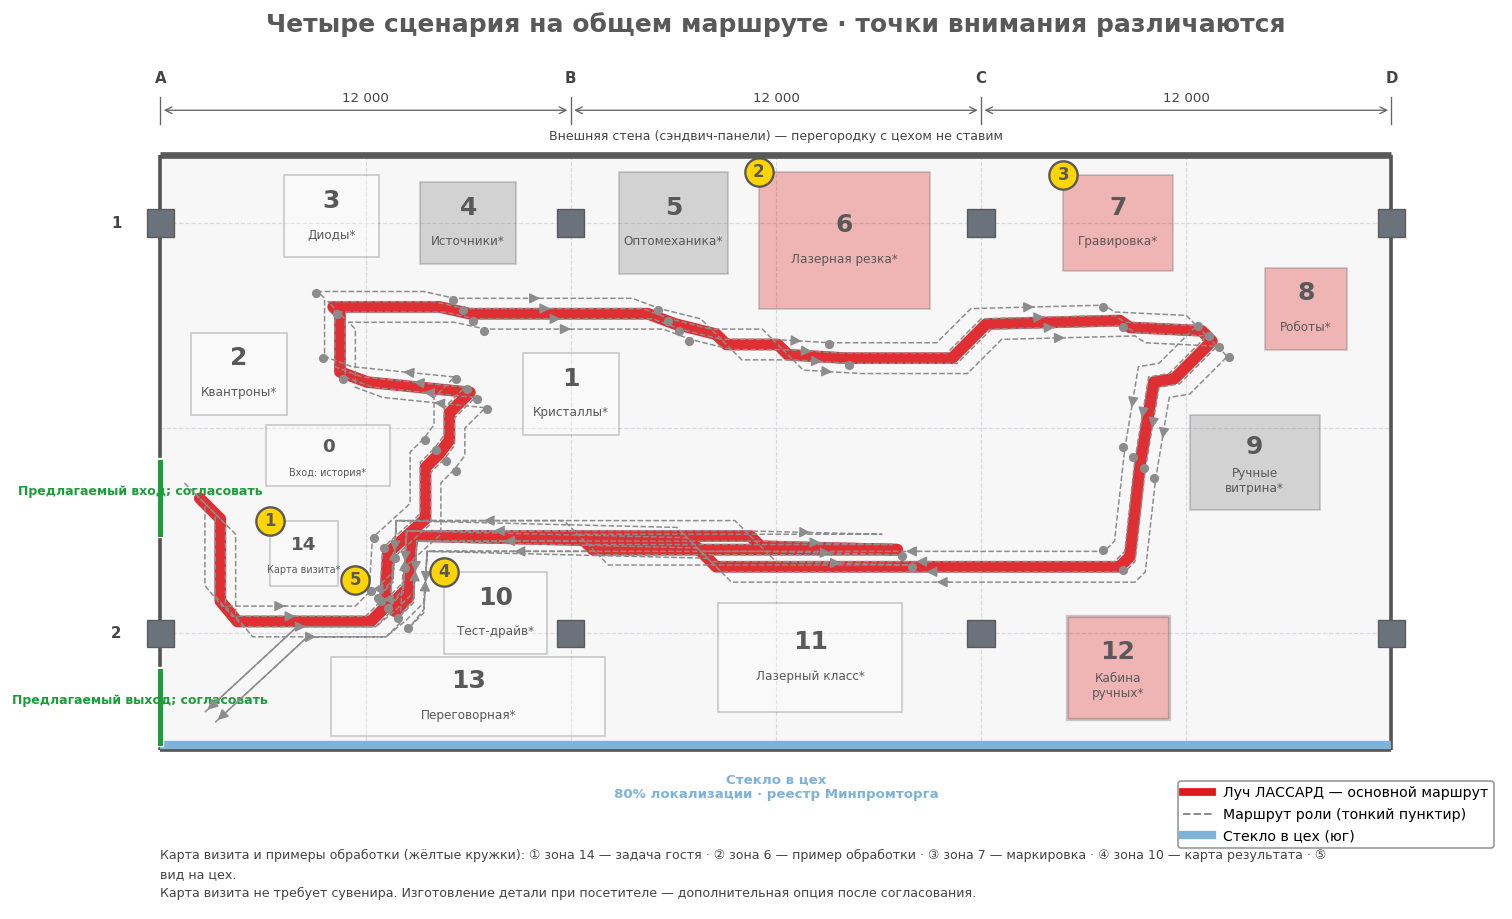
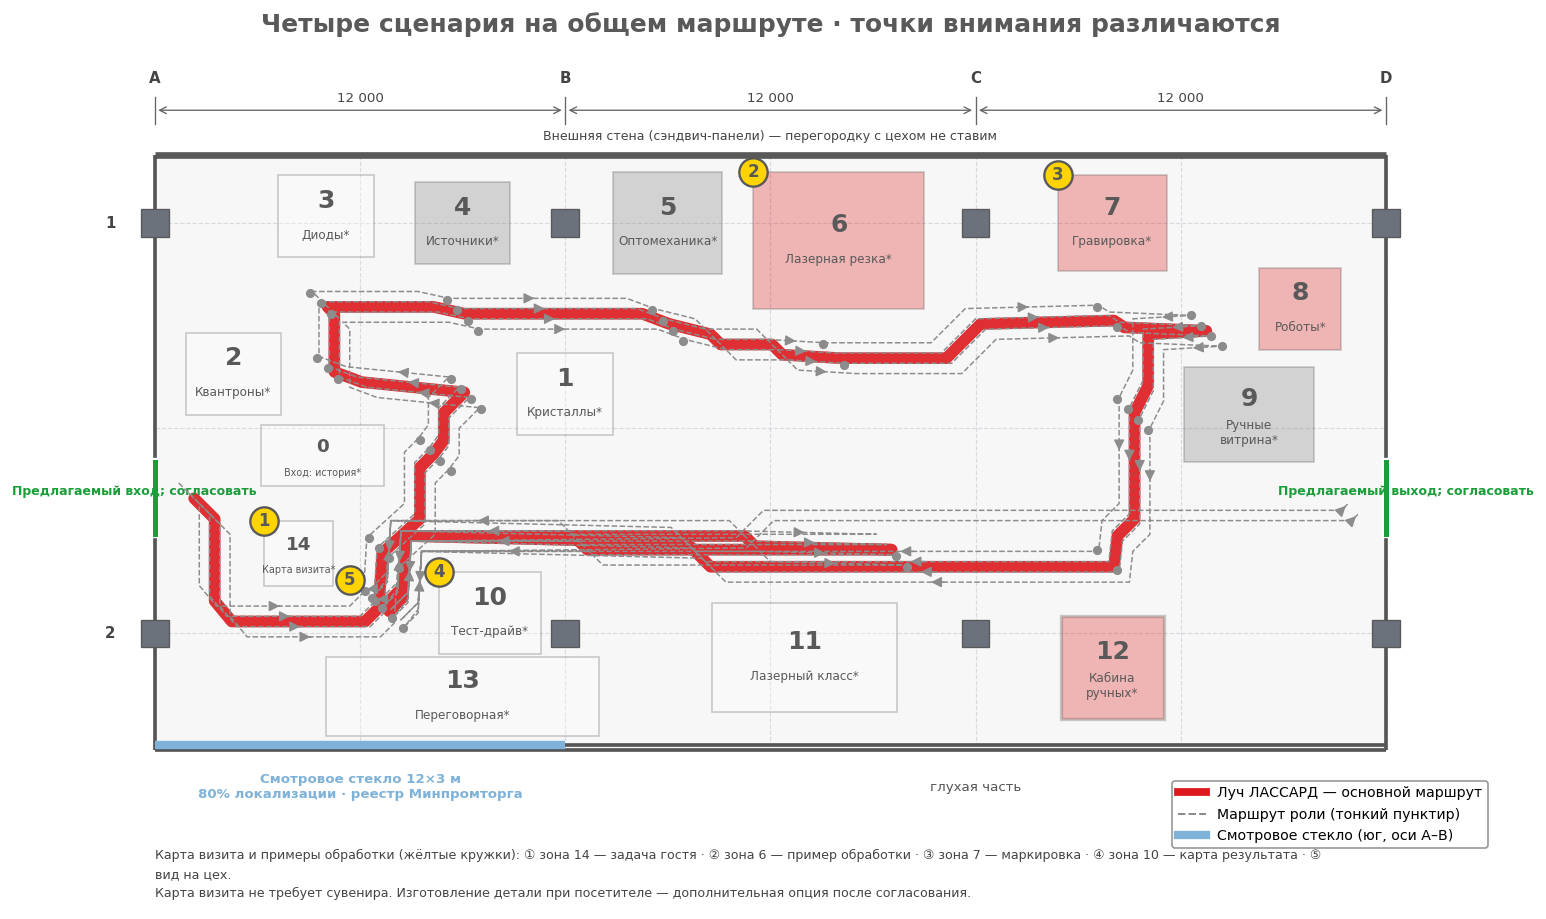
plan: смотровое стекло A–B, восточный эвакуационный выход, маршрут партнёра (#31)

diff --git a/plan/make_plan.py b/plan/make_plan.py
@@ -96,14 +96,23 @@ def draw_columns(ax, plan):
 def draw_partition_and_office(ax, plan):
     room = plan.room
     side = room.get('production_side')
+    glass_end = room['columns']['xs'][1]   # смотровое стекло — оси A–B (0–12 м южной стены)
     for t0, t1 in layout.partition_segments(room):
-        a, b = layout.wall_point(side, t0, room, 0.15), layout.wall_point(side, t1, room, 0.15)
+        if t0 >= glass_end:
+            continue
+        a, b = layout.wall_point(side, t0, room, 0.15), layout.wall_point(side, min(t1, glass_end), room, 0.15)
         ax.plot([a[0], b[0]], [a[1], b[1]], color=GLASS, lw=5, zorder=5, solid_capstyle='butt')
     if side in layout.SIDES and side not in layout.EXTERNAL_WALLS:
         x, y = outside_label_pos(side, room)
-        rot = 90 if side in ('east', 'west') else 0
-        ax.text(x, y, 'Стекло в цех\n80% локализации · реестр Минпромторга' if side == 'south' else 'ЦЕХ · сторона уточняется',
-                ha='center', va='center', rotation=rot, fontsize=8, color=GLASS, fontweight='bold')
+        if side == 'south':
+            a, b = layout.wall_point(side, glass_end, room, 0.15), layout.wall_point(side, room['w'], room, 0.15)
+            ax.plot([a[0], b[0]], [a[1], b[1]], color='#555', lw=2.2, zorder=4, solid_capstyle='butt')
+            ax.text(glass_end / 2, y, 'Смотровое стекло 12×3 м\n80% локализации · реестр Минпромторга',
+                    ha='center', va='center', fontsize=8, color=GLASS, fontweight='bold')
+            ax.text((glass_end + room['w']) / 2, y, 'глухая часть', ha='center', va='center', fontsize=8, color='#555')
+        else:
+            rot = 90 if side in ('east', 'west') else 0
+            ax.text(x, y, 'ЦЕХ · сторона уточняется', ha='center', va='center', rotation=rot, fontsize=8, color=GLASS, fontweight='bold')
     office = room.get('office_side')
     if office in layout.SIDES:
         x, y = outside_label_pos(office, room, 2.0 if office == 'south' else 2.4)
@@ -163,8 +172,8 @@ def draw_legend(ax, plan, role=False):
     items = [ax.plot([], [], color=RED, lw=BEAM_LW / 1.5, label='Луч ЛАССАРД — основной маршрут')[0]]
     if role:
         items.append(ax.plot([], [], color=ROLE_GRAY, lw=1.2, ls='--', label='Маршрут роли (тонкий пунктир)')[0])
-    items.append(ax.plot([], [], color=GLASS, lw=5, label='Стекло в цех (юг)')[0])
-    room = plan.room   # под линией стекла, правее подписи «Стекло в цех»
+    items.append(ax.plot([], [], color=GLASS, lw=5, label='Смотровое стекло (юг, оси A–B)')[0])
+    room = plan.room   # под линией стены, правее подписи стекла
     ax.legend(handles=items, loc='upper right', bbox_to_anchor=(room['w'] + 3.2, room['d'] + 0.7), bbox_transform=ax.transData,
               fontsize=8.5, frameon=True, facecolor='white', edgecolor=GRAY)
 

diff --git a/scripts/deck_assets.py b/scripts/deck_assets.py
@@ -25,7 +25,7 @@ LABEL_GREEN = (27, 158, 58)
 ROUTE_GREEN = (44, 160, 44)            # «Учебная группа» route crosses the labels
 PLAN_BG = (247, 247, 247)             # BG in plan/make_plan.py
 NORTH_NOTE = (500, 62, 1050, 88)       # note on the north wall, crop coordinates
-GLASS_LABEL = '▲  СТЕКЛО В ЦЕХ — производство видно с маршрута'
+GLASS_LABEL = '▲  СМОТРОВОЕ СТЕКЛО 12×3 м (оси A–B) — финал луча'
 
 
 def font(font_dir, size, bold=False):

diff --git a/submission/explanatory-note.md b/submission/explanatory-note.md
@@ -34,7 +34,7 @@
 | 12. Закрытая кабина | Кабина для показа сварки и очистки оператором, вытяжка, смотровое окно | Ручные аппараты в работе — безопасно |
 | 13. Переговорная | Открытая зона разговора со специалистом | Следующий шаг после визита |
 | 14. Карта визита | Консультант принимает задачу и образец (обработка — зоны 6, 7, 12; сравнение — зона 10), выдаёт бумажную карту визита | Визит с первой минуты идёт под задачу гостя |
-| Стекло в цех | Южная стена: смотровой участок 12 × 3 м и негорючая глухая часть | Живое производство — финал луча |
+| Стекло в цех | Южная стена: смотровой участок 12 × 3 м (оси A–B, за открытой переговорной 13) и негорючая глухая часть | Живое производство — финал луча |
 
 Зоны 6, 7, 8 и 12 — рабочие, красные: там установки работают в защитном исполнении, и показ ведёт обученный оператор. Зоны 1–5 и 9 — витрины и стенды: гость рассматривает образцы и сравнивает результаты.
 
@@ -100,7 +100,7 @@
 ## 6. Безопасность
 Безопасность заложена в планировку: открытого лазерного луча в общем зале нет, установки работают за защитой, гость находится за линией безопасности.
 
-Негорючие материалы. Стены, потолок и перегородки зала — из негорючих материалов; пол — полимерное покрытие, класс пожарной опасности — по проекту; под установками зон 6, 7, 8, 12 — негорючее основание (ДОПУЩЕНИЕ). Перегородка с цехом — противопожарная: смотровой участок 12 × 3 м из стекла с лазерной защитой нужной оптической плотности и негорючая глухая часть.
+Негорючие материалы. Стены, потолок и перегородки зала — из негорючих материалов; пол — полимерное покрытие, класс пожарной опасности — по проекту; под установками зон 6, 7, 8, 12 — негорючее основание (ДОПУЩЕНИЕ). Перегородка с цехом — противопожарная: смотровой участок 12 × 3 м (оси A–B, за открытой переговорной 13) из стекла с лазерной защитой нужной оптической плотности и негорючая глухая часть.
 
 Пожаротушение. В зоне лазерной обработки (зоны 6, 7, 8 и кабина 12) устанавливается автоматическая установка пожаротушения; сигнализация и система оповещения о пожаре расширяются на весь зал.
 
@@ -108,7 +108,7 @@
 
 Лазерная защита. Станки работают в кабинетном исполнении с защитными стёклами. Ручные аппараты сварки и очистки показывает оператор в закрытой кабине 12 со смотровым окном, блокировками и местной вытяжкой. Робот-манипулятор с гравером в зоне 8 стоит в защитном ограждении. У зоны резки установлены защитные экраны. Запускает установки только обученный оператор; гости идут за линией безопасности (жёлтая разметка на полу), по записи, группами до 6 человек.
 
-Эвакуация. В зале предусмотрено не менее двух эвакуационных выходов с проходами без тупиков и световыми указателями; маршрут гостей не пересекает рабочие зоны станков.
+Эвакуация. В зале предусмотрено два рассредоточенных эвакуационных выхода — на западной и восточной стенах — с проходами без тупиков и световыми указателями; маршрут гостей не пересекает рабочие зоны станков.
 
 Проектирование ведётся по СП 1.13130.2020 (эвакуационные пути и выходы), СП 484.1311500.2020 (пожарная сигнализация), СП 485.1311500.2020 (установки пожаротушения) и ГОСТ IEC 60825-1-2023 (лазерная безопасность). Расчётные значения воздухообмена, оптической плотности стекла и параметров ограждений определяются проектом.
 
@@ -134,7 +134,7 @@
 | Допущение | Основание | Кто подтверждает |
 |---|---|---|
 | ДОПУЩЕНИЕ. Зал ≈ 36 × 17,4 м; положение и сечение колонн | Снято с неподписанной схемы кейса; 1 квадрат сетки = 6 × 6 м | ЛАССАРД: обмер помещения |
-| ДОПУЩЕНИЕ. Вход и выход слева, не менее двух эвакуационных выходов | Новое предложение команды: на CP2 сказано, что стен нет, места выходов не названы | ЛАССАРД и проектировщик по документам здания |
+| ДОПУЩЕНИЕ. Вход — западная стена; второй эвакуационный выход — восточная стена (рассредоточение по СП 1.13130.2020) | Новое предложение команды: на CP2 сказано, что стен нет, места выходов не названы | ЛАССАРД и проектировщик по документам здания |
 | ДОПУЩЕНИЕ. Стекло в цех 12 × 3 м на южной стене | Цех снизу схемы — CP2; размеры смотрового участка выбраны командой | ЛАССАРД: границы цеха; проектировщик: противопожарная перегородка |
 | ДОПУЩЕНИЕ. Модели и исполнения малогабаритных установок в зонах 6, 7, 9 | CP2: гравировка, сварка, очистка, два названных SMART; каталог 2026 даёт габариты, но выбранные модели не названы | ЛАССАРД: выбор моделей и установочные чертежи |
 | ДОПУЩЕНИЕ. Робот-манипулятор с гравером в защитном ограждении из оборудования ЛАССАРД | Модель и габариты ячейки в открытых источниках не найдены | ЛАССАРД: состав ячейки, ограждение, регламент оператора |
